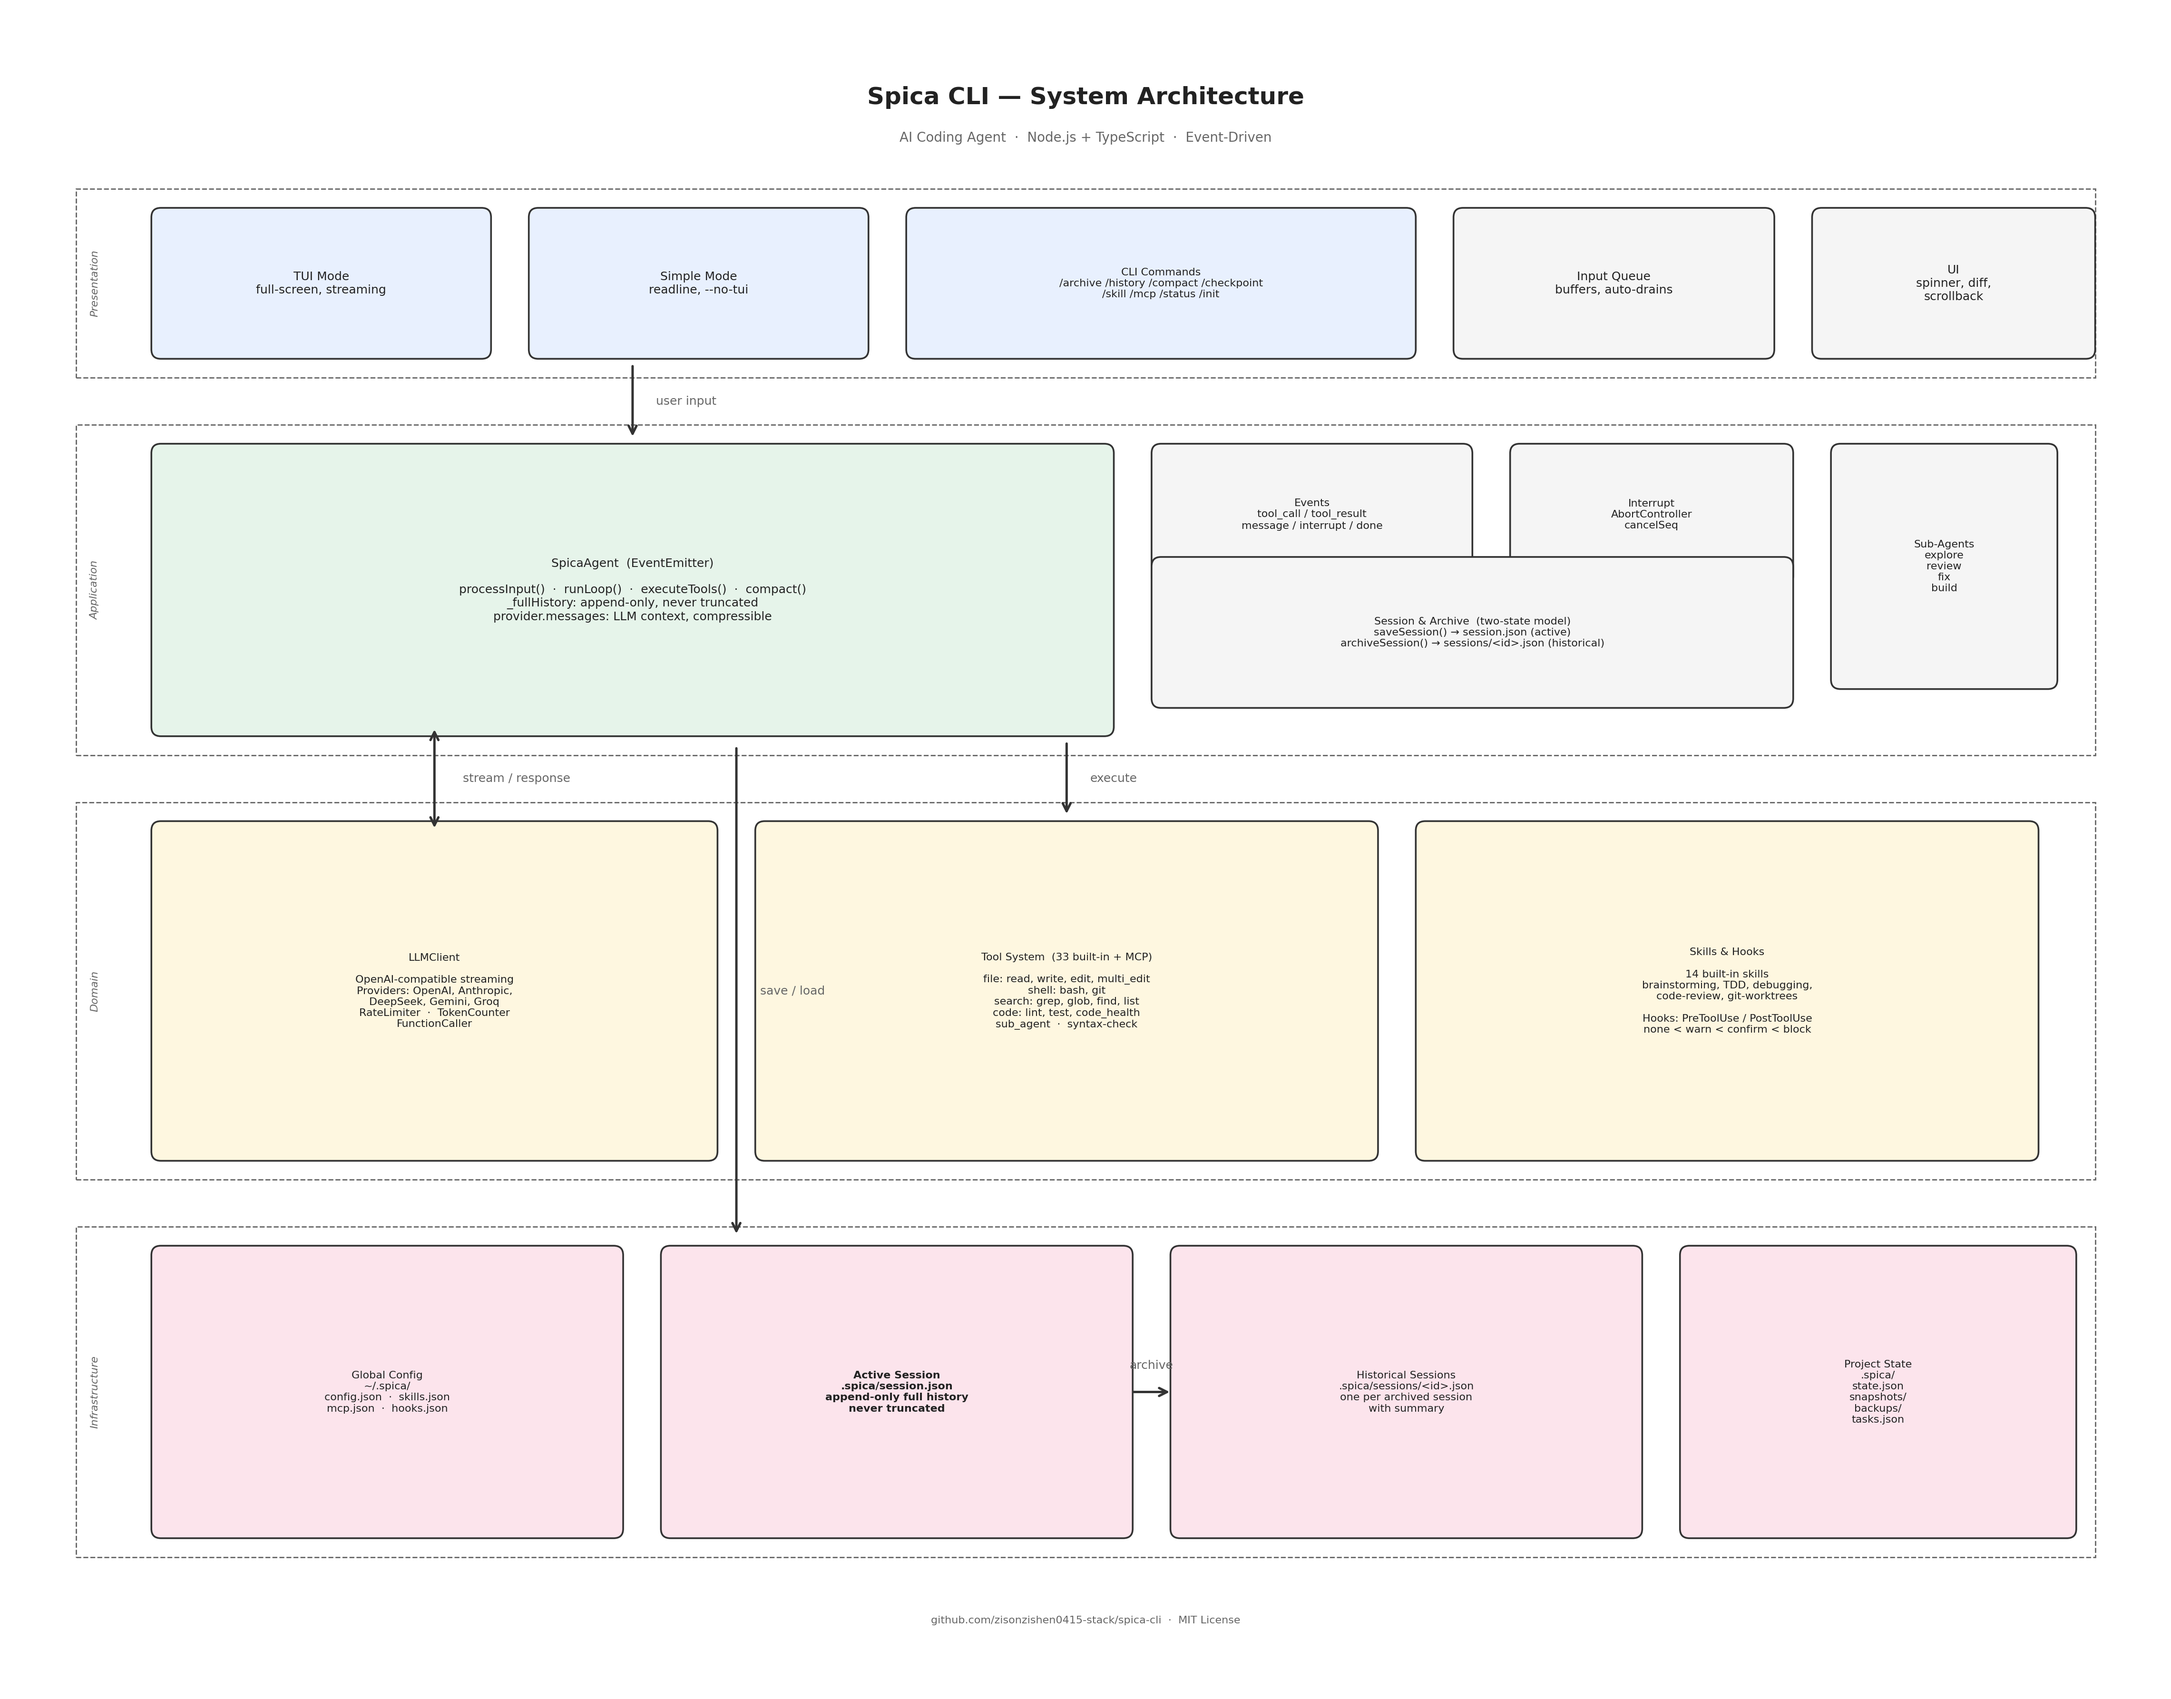
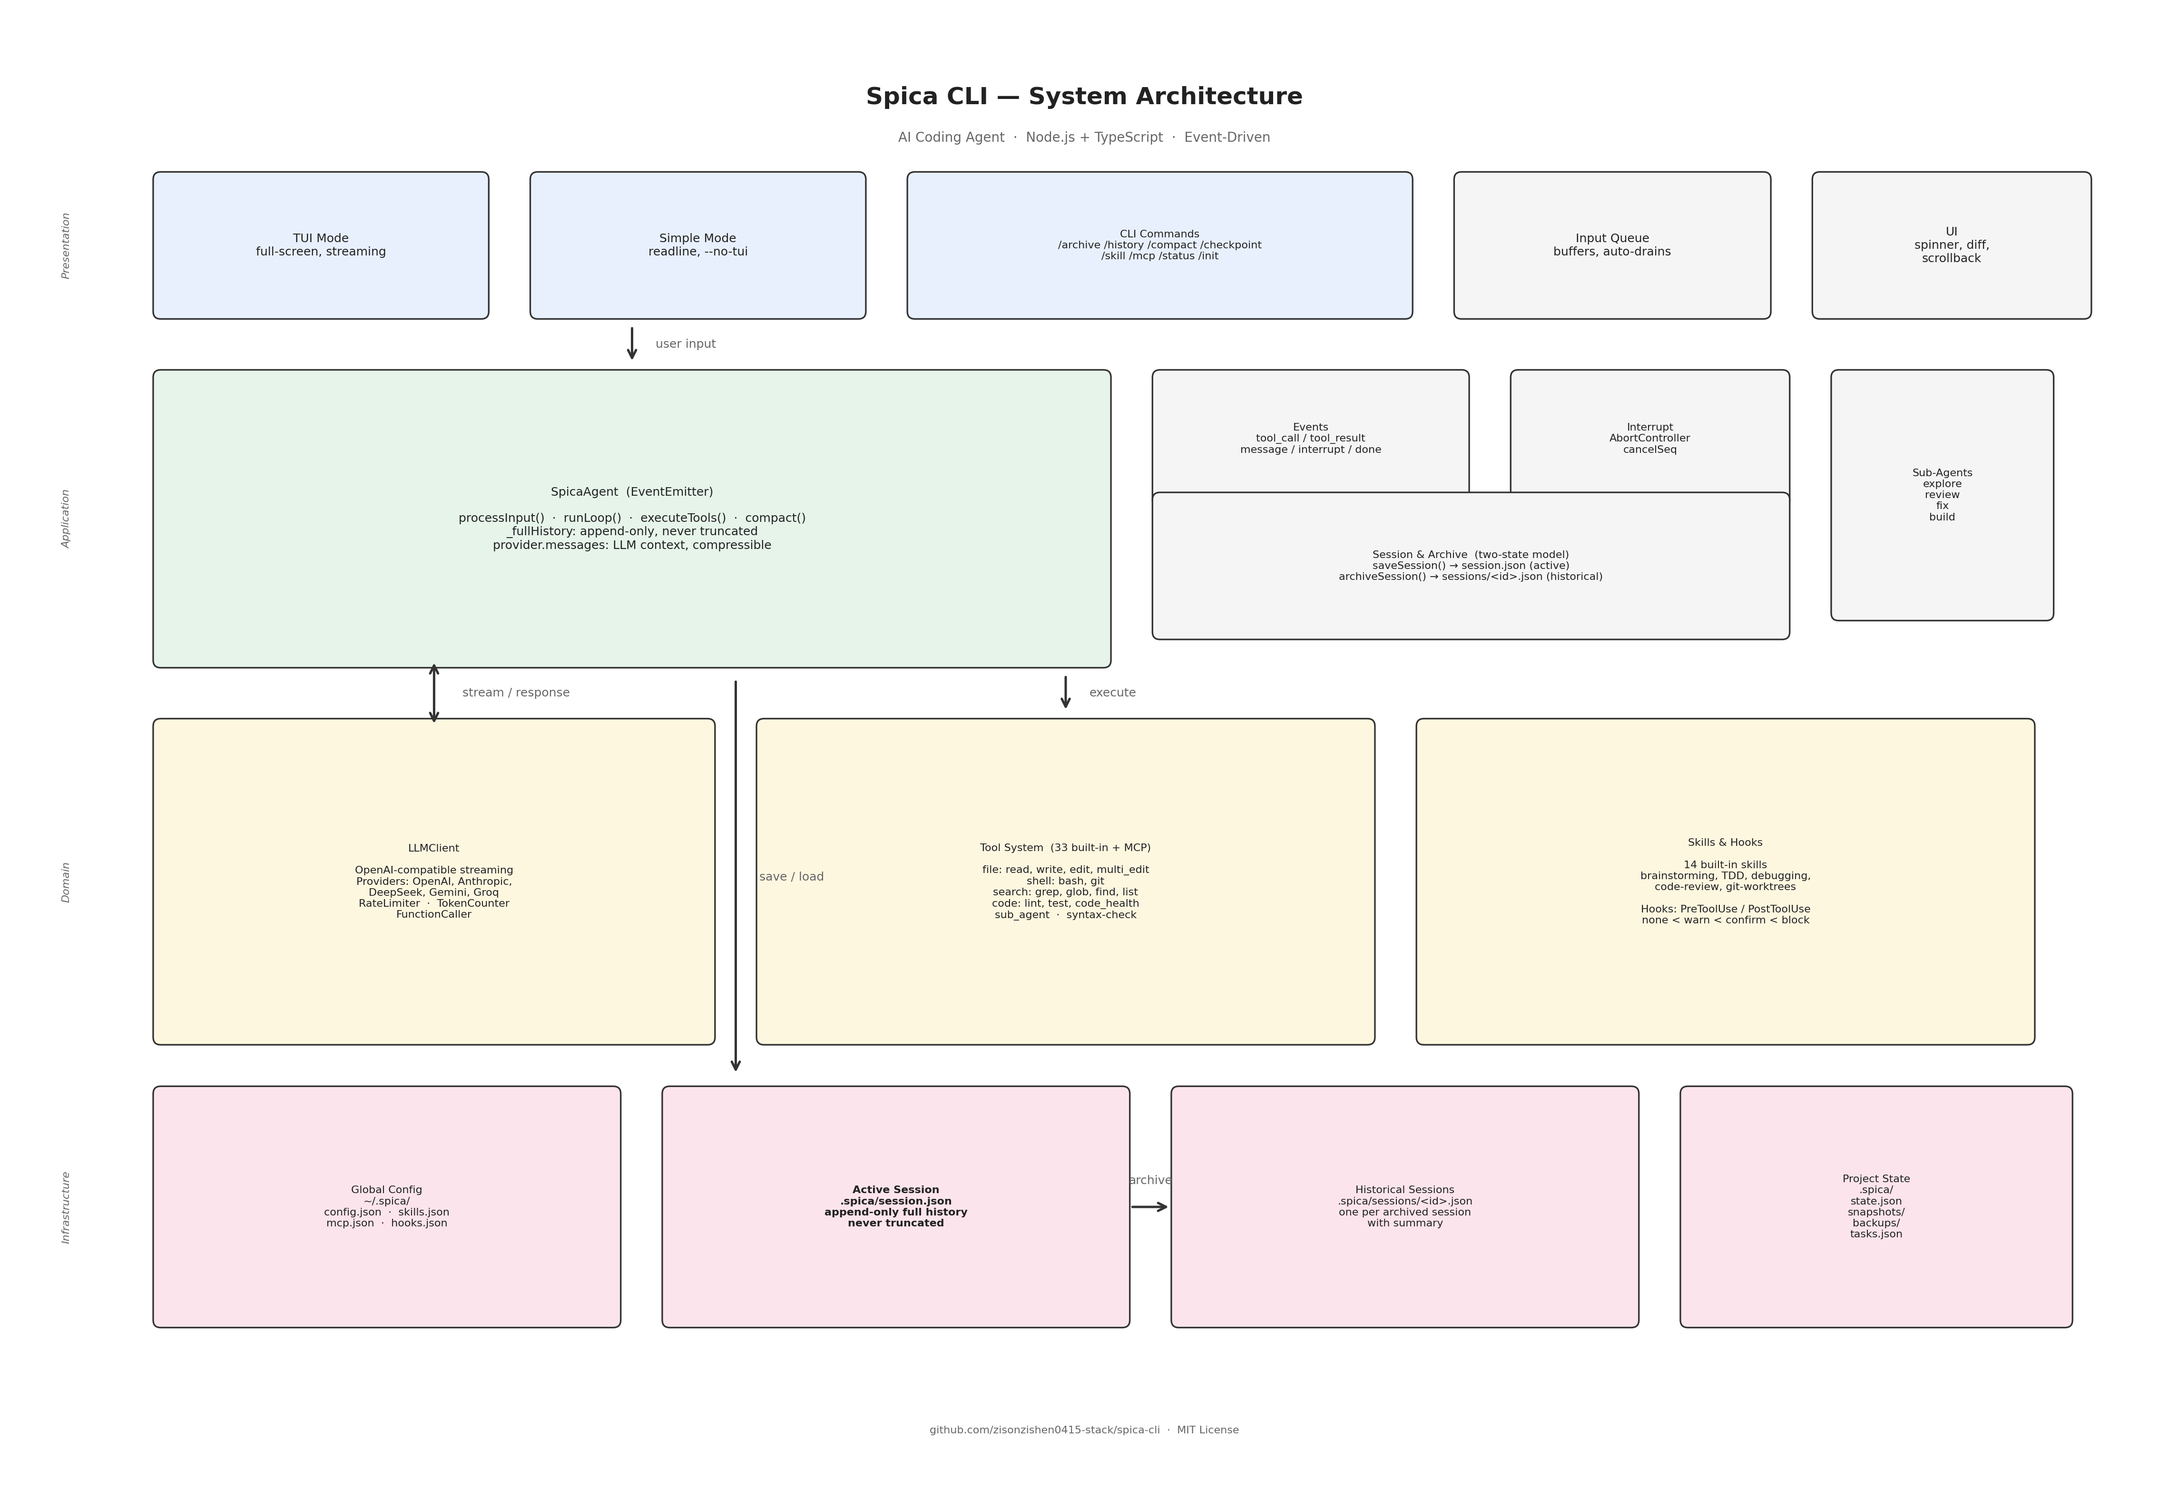
fix(docs): remove dashed layer boundaries entirely
- No layer boundary boxes at all — zero overlap by construction
- Layer labels: just rotated text in left margin
- Rows separated by 0.6-0.7 vertical gaps
- Boxes within rows: right()+0.6 relative positioning

diff --git a/scripts/draw_architecture.py b/scripts/draw_architecture.py
@@ -1,14 +1,14 @@
 #!/usr/bin/env python3
-"""Spica CLI — academic block diagram. No overlaps, period."""
+"""Spica CLI — no layer boundaries, just clean boxes with spacing."""
 
 import matplotlib
 matplotlib.use('Agg')
 import matplotlib.pyplot as plt
-from matplotlib.patches import FancyBboxPatch, Rectangle, FancyArrowPatch as FAP
+from matplotlib.patches import FancyBboxPatch, FancyArrowPatch as FAP
 
-fig, ax = plt.subplots(figsize=(22, 17))
+fig, ax = plt.subplots(figsize=(22, 15))
 ax.set_xlim(0, 22)
-ax.set_ylim(0, 17)
+ax.set_ylim(0, 15)
 ax.set_aspect('equal')
 ax.axis('off')
 
@@ -25,19 +25,18 @@ GRAY = '#666666'
 fig.set_facecolor(BG)
 ax.set_facecolor(BG)
 
-G = 0.6   # horizontal gap between boxes in same row
-LG = 0.5  # vertical gap between layer boundaries
+G  = 0.6   # horizontal gap
+VG = 0.7   # vertical gap between rows
 
 class Box:
     def __init__(self, x, y, w, h, label, color=BOX, fs=10, bold=False):
         self.x, self.y, self.w, self.h = x, y, w, h
-        r = FancyBboxPatch((x, y), w, h, boxstyle='round,pad=0.1',
-                           facecolor=color, edgecolor=LINE, lw=1.3)
+        r = FancyBboxPatch((x, y), w, h, boxstyle='round,pad=0.08',
+                           facecolor=color, edgecolor=LINE, lw=1.2)
         ax.add_patch(r)
         wt = 'bold' if bold else 'normal'
         ax.text(x + w/2, y + h/2, label, color=TEXT, fontsize=fs,
                 ha='center', va='center', fontweight=wt)
-
     def top(self):    return self.y + self.h
     def bottom(self): return self.y
     def left(self):   return self.x
@@ -68,43 +67,26 @@ def bidir(x1, y1, x2, y2, label='', fs=9):
         mx, my = (x1+x2)/2, (y1+y2)/2
         ax.text(mx+0.3, my, label, color=GRAY, fontsize=fs, ha='left', va='center')
 
-def layer(x, y, w, h, label):
-    """Dashed layer boundary. Uses Rectangle (sharp corners)."""
-    r = Rectangle((x, y), w, h, facecolor='none', edgecolor=GRAY, lw=1.0, ls='--')
-    ax.add_patch(r)
-    ax.text(x+0.15, y+h/2, label, color=GRAY, fontsize=8, fontstyle='italic',
-            va='center', rotation=90)
-
 # ── TITLE ──
-ax.text(11, 16.4, 'Spica CLI — System Architecture', color=TEXT, fontsize=18,
+ax.text(11, 14.4, 'Spica CLI — System Architecture', color=TEXT, fontsize=18,
         ha='center', fontweight='bold')
-ax.text(11, 16.0, 'AI Coding Agent  ·  Node.js + TypeScript  ·  Event-Driven',
+ax.text(11, 14.0, 'AI Coding Agent  ·  Node.js + TypeScript  ·  Event-Driven',
         color=GRAY, fontsize=10, ha='center')
 
-# ═══════════════════════════════════════════════════
-# LAYER 1: PRESENTATION
-#   boundary: y=13.5..15.5  h=2.0
-#   boxes:    y=13.8..15.2  h=1.4
-#   margin inside boundary: 0.3 top, 0.3 bottom
-# ═══════════════════════════════════════════════════
-layer(0.3, 13.5, 21.4, 2.0, 'Presentation')
+# ═══ ROW 1: User Interface  y=12.2..13.6  h=1.4 ═══
+row1_y, row1_h = 12.2, 1.4
+x = 1.2
+tui    = Box(x, row1_y, 3.4, row1_h, 'TUI Mode\nfull-screen, streaming', BOX2, 9)
+simple = Box((x:=tui.right()+G), row1_y, 3.4, row1_h, 'Simple Mode\nreadline, --no-tui', BOX2, 9)
+cmds   = Box((x:=simple.right()+G), row1_y, 5.2, row1_h, 'CLI Commands\n/archive /history /compact /checkpoint\n/skill /mcp /status /init', BOX2, 8)
+iqueue = Box((x:=cmds.right()+G), row1_y, 3.2, row1_h, 'Input Queue\nbuffers, auto-drains', BOX, 9)
+uicomp = Box((x:=iqueue.right()+G), row1_y, 2.8, row1_h, 'UI\nspinner, diff,\nscrollback', BOX, 9)
 
-tui    = Box(1.2, 13.8, 3.4, 1.4, 'TUI Mode\nfull-screen, streaming', BOX2, 9)
-simple = Box(tui.right()+G, 13.8, 3.4, 1.4, 'Simple Mode\nreadline, --no-tui', BOX2, 9)
-cmds   = Box(simple.right()+G, 13.8, 5.2, 1.4, 'CLI Commands\n/archive /history /compact /checkpoint\n/skill /mcp /status /init', BOX2, 8)
-iqueue = Box(cmds.right()+G, 13.8, 3.2, 1.4, 'Input Queue\nbuffers, auto-drains', BOX, 9)
-uicomp = Box(iqueue.right()+G, 13.8, 2.8, 1.4, 'UI\nspinner, diff,\nscrollback', BOX, 9)
+# ═══ ROW 2: Core Agent  y=8.5..11.5  h=3.0 ═══
+#   gap from row1: 12.2 - 11.5 = 0.7
+row2_y, row2_h = 8.5, 3.0
 
-# ═══════════════════════════════════════════════════
-# LAYER 2: APPLICATION
-#   boundary: y=9.5..13.0  h=3.5
-#   gap from layer 1: 13.5 - 13.0 = 0.5
-#   boxes:    y=9.8..12.7  h=2.9
-# ═══════════════════════════════════════════════════
-layer(0.3, 9.5, 21.4, 3.5, 'Application')
-
-agent_y, agent_h = 9.8, 2.9
-agent = Box(1.2, agent_y, 10.0, agent_h,
+agent = Box(1.2, row2_y, 10.0, row2_h,
             'SpicaAgent  (EventEmitter)\n\n'
             'processInput()  ·  runLoop()  ·  executeTools()  ·  compact()\n'
             '_fullHistory: append-only, never truncated\n'
@@ -117,31 +99,26 @@ events = Box(agent.right()+G, agent.top()-1.3, 3.2, 1.3,
 interrupt = Box(events.right()+G, agent.top()-1.3, 2.8, 1.3,
                 'Interrupt\nAbortController\ncancelSeq', BOX, 8)
 
-session = Box(agent.right()+G, agent_y+0.3,
+session = Box(agent.right()+G, row2_y+0.3,
               interrupt.right() - agent.right() - G, 1.4,
               'Session & Archive  (two-state model)\n'
               'saveSession() → session.json (active)\narchiveSession() → sessions/<id>.json (historical)',
               BOX, 8)
 
-subagent = Box(interrupt.right()+G, agent_y+0.5, 2.2, 2.4,
+subagent = Box(interrupt.right()+G, row2_y+0.5, 2.2, 2.5,
                'Sub-Agents\nexplore\nreview\nfix\nbuild', BOX, 8)
 
-# ═══════════════════════════════════════════════════
-# LAYER 3: DOMAIN
-#   boundary: y=5.0..9.0  h=4.0
-#   gap from layer 2: 9.5 - 9.0 = 0.5
-#   boxes:    y=5.3..8.7  h=3.4
-# ═══════════════════════════════════════════════════
-layer(0.3, 5.0, 21.4, 4.0, 'Domain')
+# ═══ ROW 3: Services  y=4.5..7.8  h=3.3 ═══
+#   gap from row2: 8.5 - 7.8 = 0.7
+row3_y, row3_h = 4.5, 3.3
 
-svc_y, svc_h = 5.3, 3.4
-llm = Box(1.2, svc_y, 5.8, svc_h,
+llm = Box(1.2, row3_y, 5.8, row3_h,
           'LLMClient\n\nOpenAI-compatible streaming\n'
           'Providers: OpenAI, Anthropic,\nDeepSeek, Gemini, Groq\n'
           'RateLimiter  ·  TokenCounter\nFunctionCaller',
           BOX4, 8)
 
-tools = Box(llm.right()+G, svc_y, 6.4, svc_h,
+tools = Box(llm.right()+G, row3_y, 6.4, row3_h,
             'Tool System  (33 built-in + MCP)\n\n'
             'file: read, write, edit, multi_edit\n'
             'shell: bash, git\n'
@@ -150,54 +127,47 @@ tools = Box(llm.right()+G, svc_y, 6.4, svc_h,
             'sub_agent  ·  syntax-check',
             BOX4, 8)
 
-skills = Box(tools.right()+G, svc_y, 6.4, svc_h,
+skills = Box(tools.right()+G, row3_y, 6.4, row3_h,
              'Skills & Hooks\n\n'
              '14 built-in skills\nbrainstorming, TDD, debugging,\ncode-review, git-worktrees\n\n'
              'Hooks: PreToolUse / PostToolUse\nnone < warn < confirm < block',
              BOX4, 8)
 
-# ═══════════════════════════════════════════════════
-# LAYER 4: INFRASTRUCTURE
-#   boundary: y=1.0..4.5  h=3.5
-#   gap from layer 3: 5.0 - 4.5 = 0.5
-#   boxes:    y=1.3..4.2  h=2.9
-# ═══════════════════════════════════════════════════
-layer(0.3, 1.0, 21.4, 3.5, 'Infrastructure')
+# ═══ ROW 4: Storage  y=1.5..3.9  h=2.4 ═══
+#   gap from row3: 4.5 - 3.9 = 0.6
+row4_y, row4_h = 1.5, 2.4
 
-sto_y, sto_h = 1.3, 2.9
-global_cfg = Box(1.2, sto_y, 4.8, sto_h,
+global_cfg = Box(1.2, row4_y, 4.8, row4_h,
                  'Global Config\n~/.spica/\nconfig.json  ·  skills.json\nmcp.json  ·  hooks.json', BOX5, 8)
 
-active = Box(global_cfg.right()+G, sto_y, 4.8, sto_h,
+active = Box(global_cfg.right()+G, row4_y, 4.8, row4_h,
              'Active Session\n.spica/session.json\nappend-only full history\nnever truncated', BOX5, 8, bold=True)
 
-historical = Box(active.right()+G, sto_y, 4.8, sto_h,
+historical = Box(active.right()+G, row4_y, 4.8, row4_h,
                  'Historical Sessions\n.spica/sessions/<id>.json\none per archived session\nwith summary', BOX5, 8)
 
-project = Box(historical.right()+G, sto_y, 4.0, sto_h,
+project = Box(historical.right()+G, row4_y, 4.0, row4_h,
               'Project State\n.spica/\nstate.json\nsnapshots/\nbackups/\ntasks.json', BOX5, 8)
 
-# ═══════════════════════════════════════════════════
-# ARROWS
-# ═══════════════════════════════════════════════════
+# ═══ ARROWS ═══
 
-# 1. UI → Agent (through 0.5 gap between layers)
-arrow(agent.cx(), tui.bottom(), agent.cx(), agent.top(), 'user input')
-
-# 2. Agent ↔ LLM (through 0.5 gap)
+arrow(agent.cx(), row1_y, agent.cx(), agent.top(), 'user input')
 bidir(llm.cx(), agent.bottom(), llm.cx(), llm.top(), 'stream / response')
-
-# 3. Agent → Tools (through 0.5 gap)
 arrow(tools.cx(), agent.bottom(), tools.cx(), tools.top(), 'execute')
-
-# 4. Agent → Storage (long arrow through gaps)
 mid_x = (llm.right() + tools.left()) / 2
 arrow(mid_x, agent.bottom(), mid_x, active.top(), 'save / load', gap=0.2)
-
-# 5. Active → Historical (within same layer)
 arrow(active.right(), active.cy(), historical.left(), historical.cy(), 'archive', gap=0.08)
 
-# ═══════════════════════════════════════════════════
+# ═══ ROW LABELS (left margin) ═══
+labels = [
+    (row1_y+row1_h/2, 'Presentation'),
+    (row2_y+row2_h/2, 'Application'),
+    (row3_y+row3_h/2, 'Domain'),
+    (row4_y+row4_h/2, 'Infrastructure'),
+]
+for y, name in labels:
+    ax.text(0.15, y, name, color=GRAY, fontsize=8, fontstyle='italic',
+            va='center', rotation=90)
 
 ax.text(11, 0.3, 'github.com/zisonzishen0415-stack/spica-cli  ·  MIT License',
         color=GRAY, fontsize=8, ha='center')
